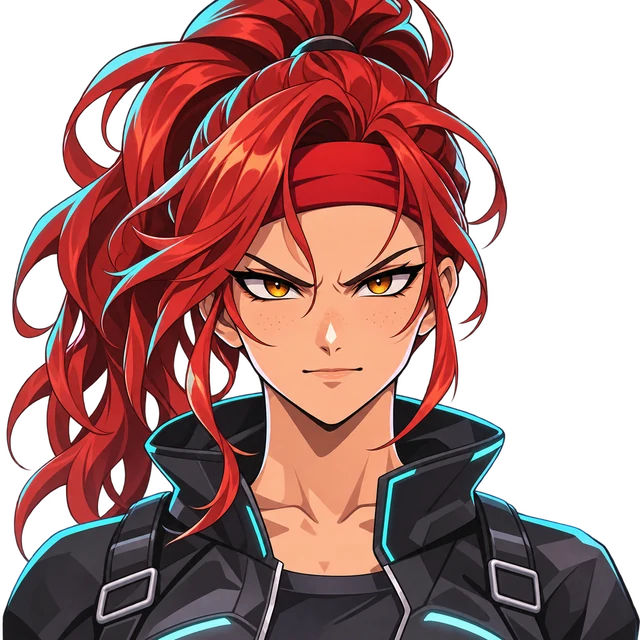
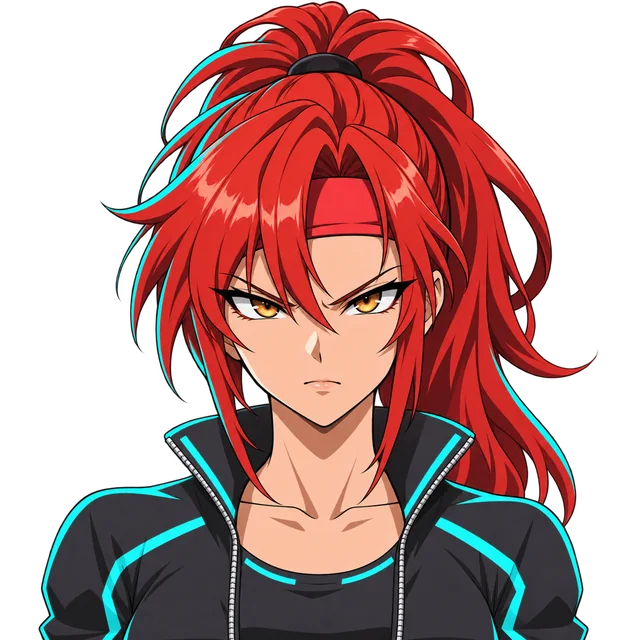
Updated Kaida portraits with full hair in frame
Claude-Session: https://claude.ai/code/session_019EJvb471j5VgJWj2RgCaka

diff --git a/sw.js b/sw.js
@@ -1,5 +1,5 @@
 // Generated by tools/build_sw.py. Do not edit by hand.
-const V = 'ascend-4e33f0af65', FONTS = 'ascend-fonts';
+const V = 'ascend-5ece41c541', FONTS = 'ascend-fonts';
 const CORE = [
  "./",
  "./index.html",
